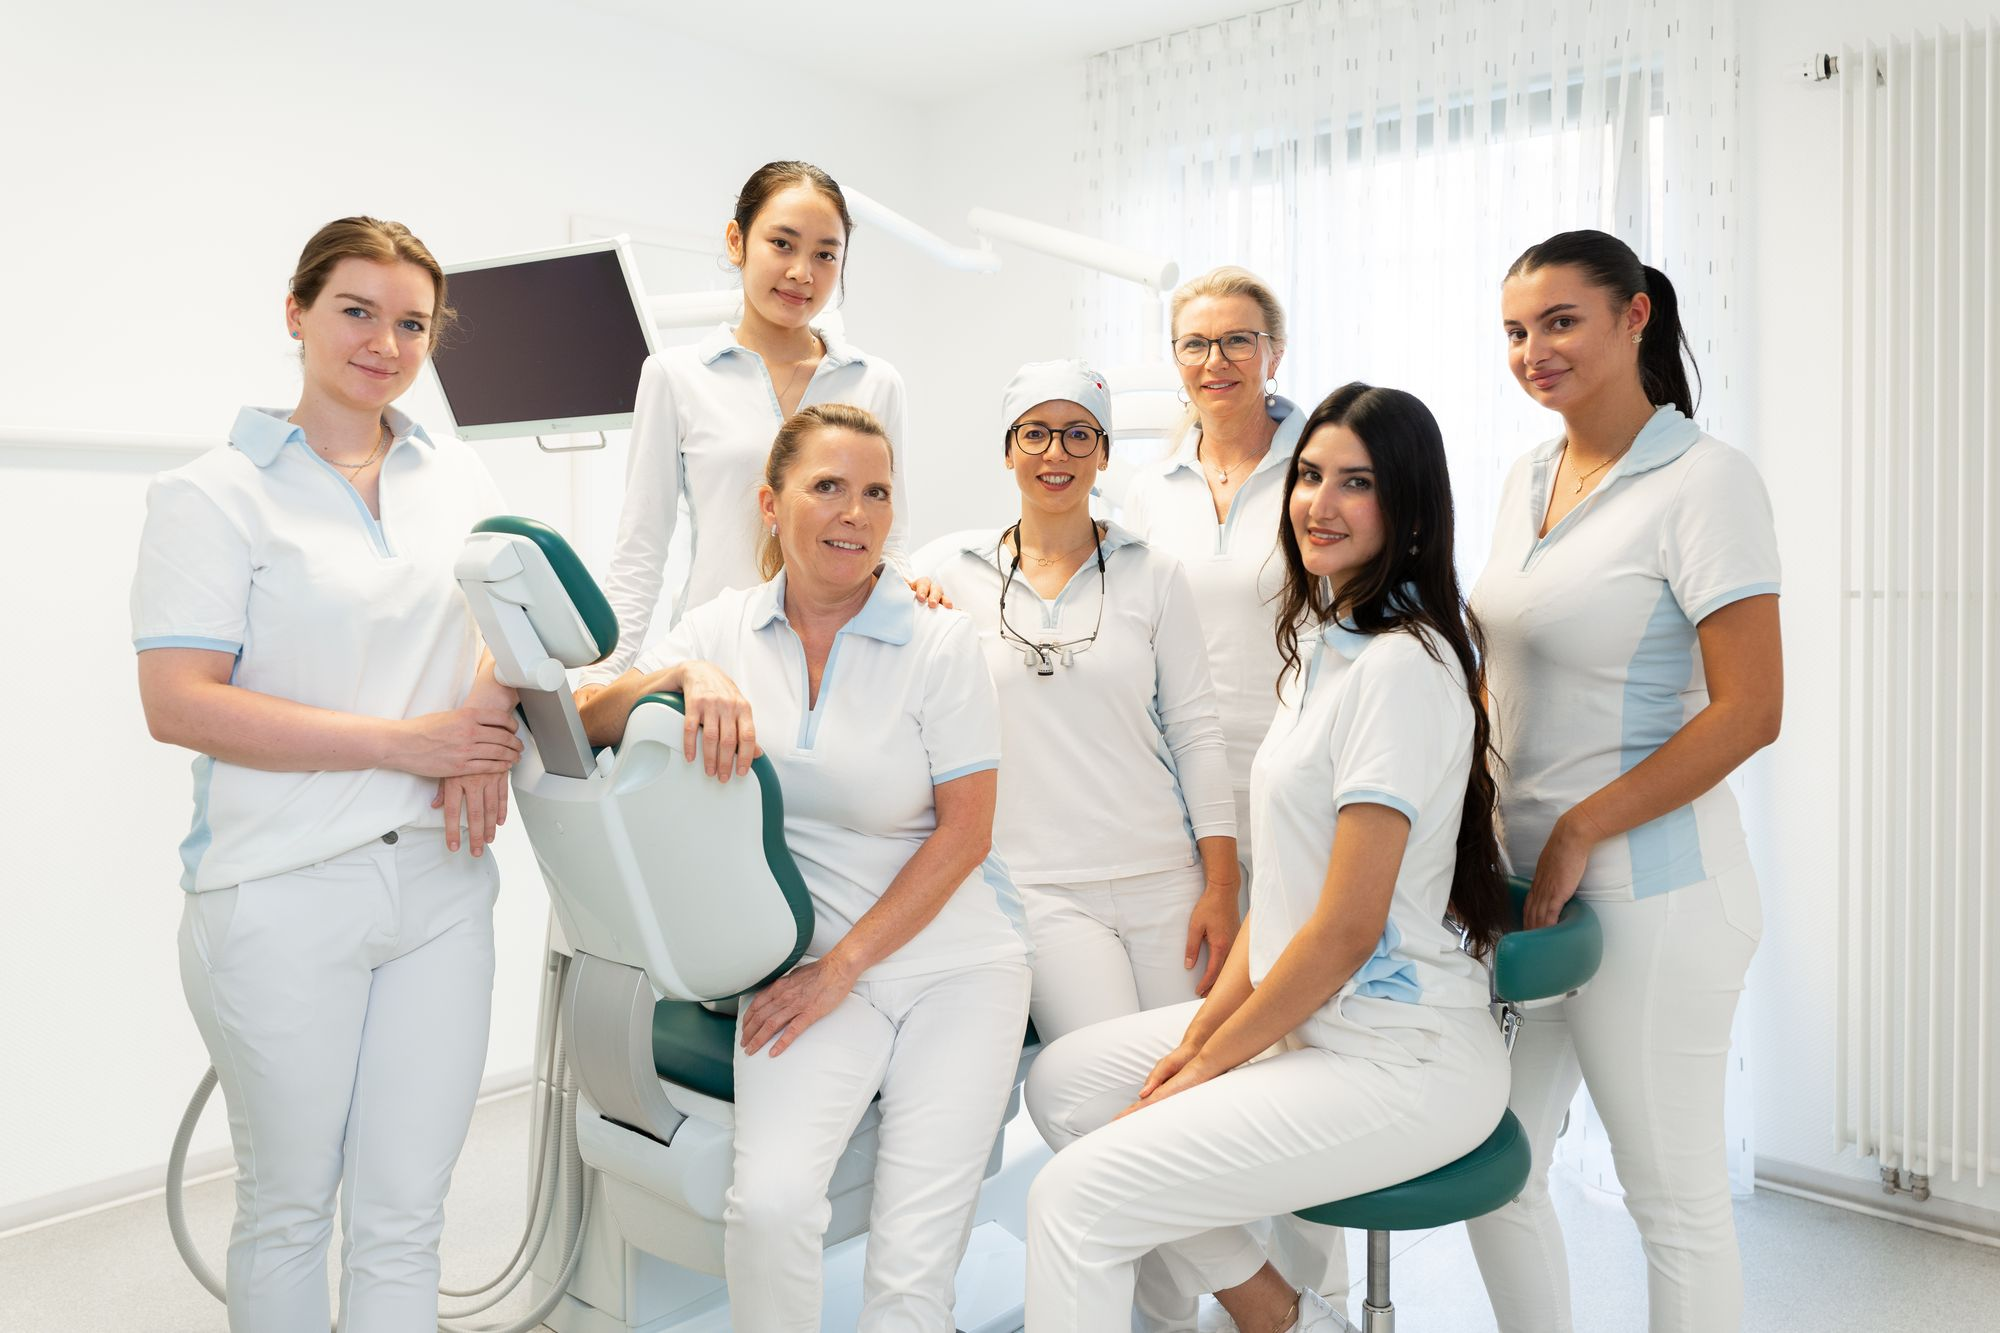
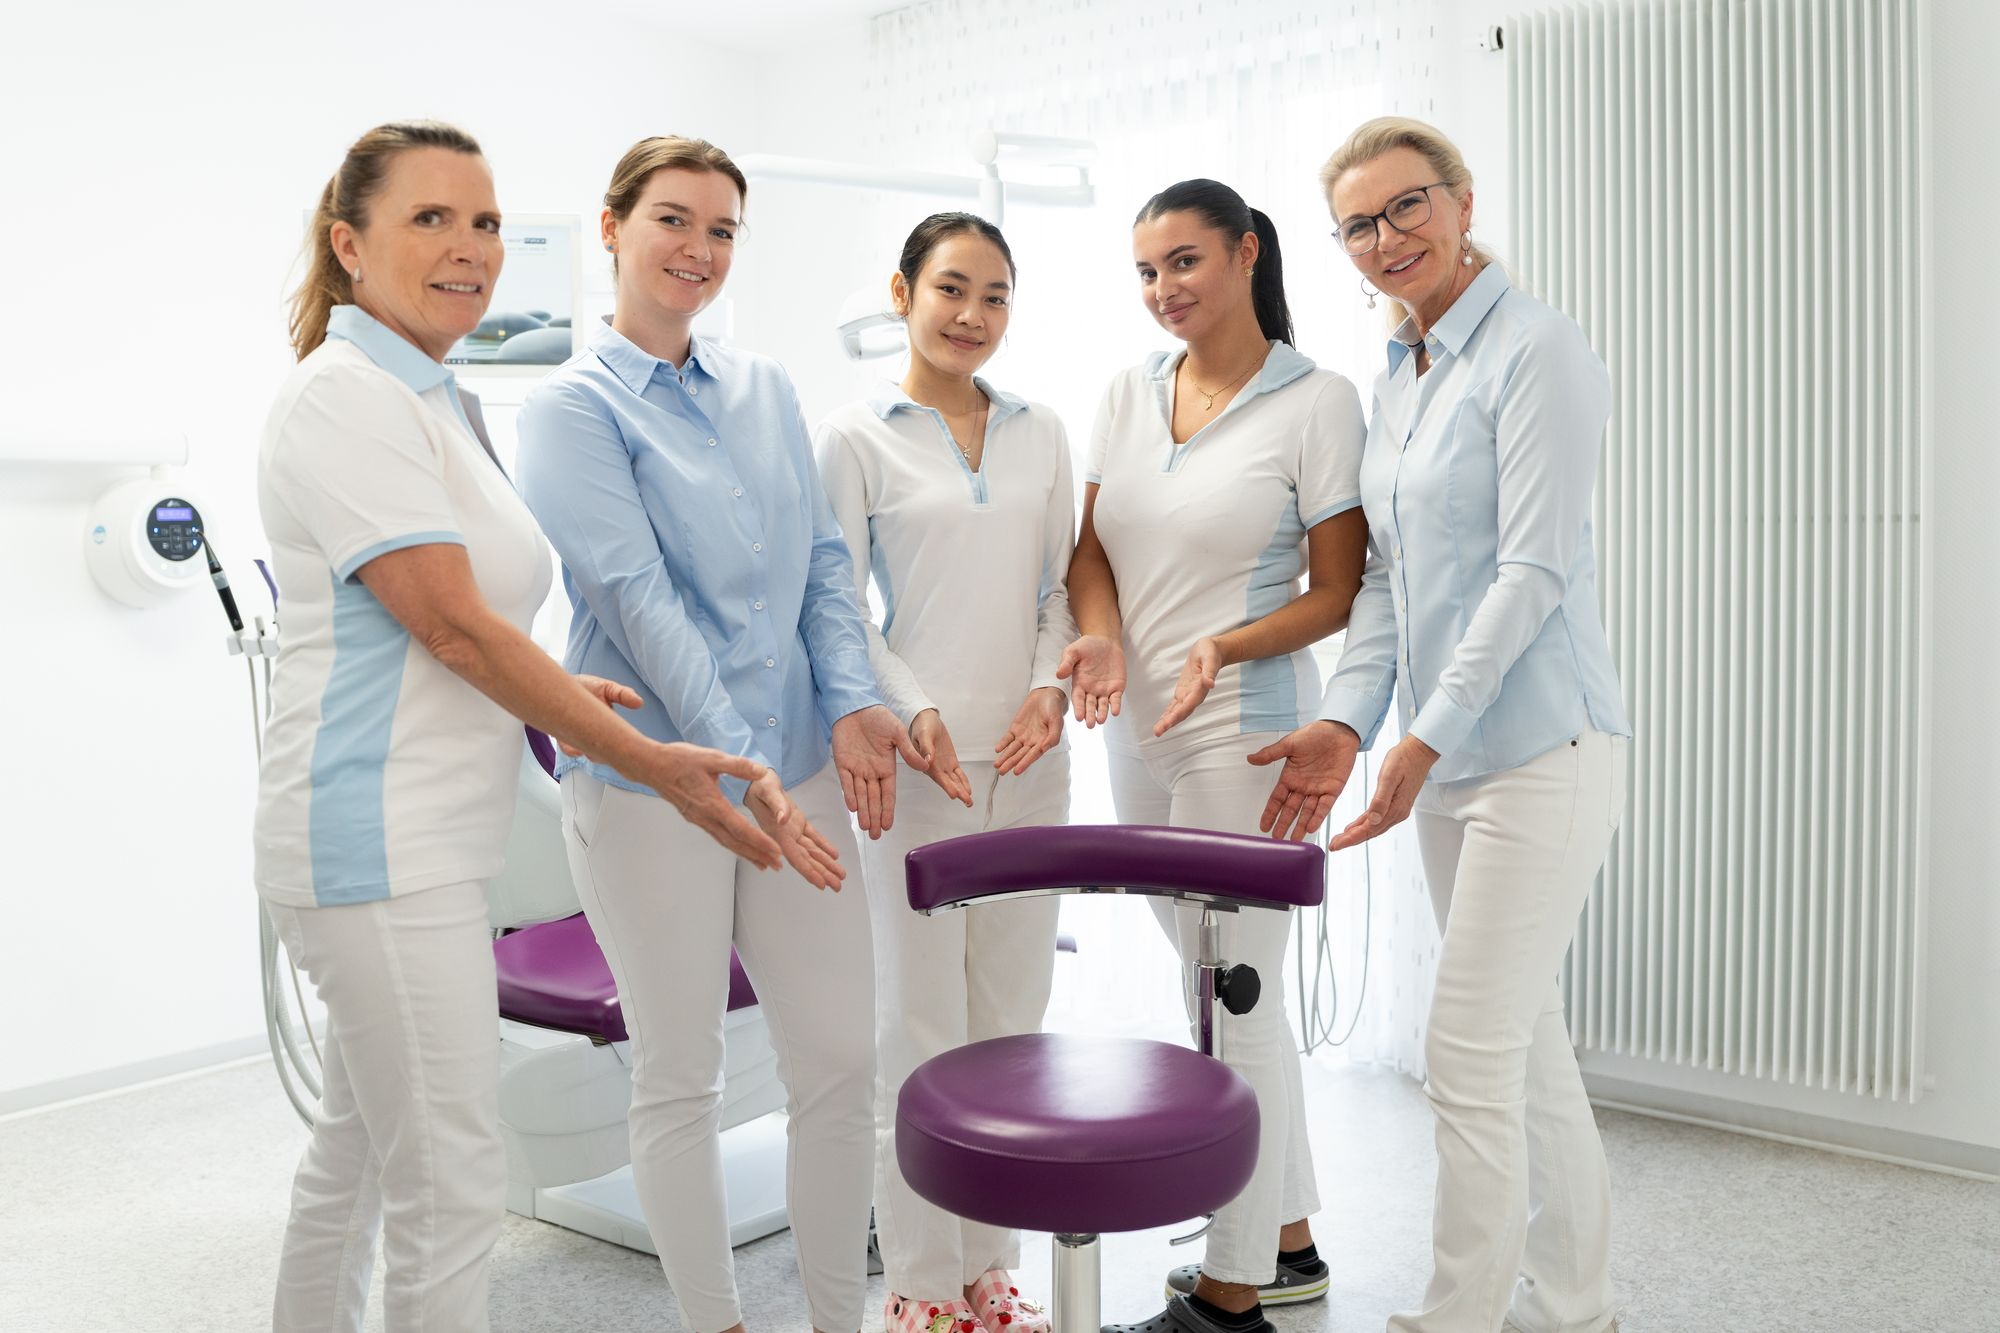
Team: neues Kopfbild, Fotos von Dr. Lisa Blatt und Dr. Alina Günther (Wunsch Awan)
Kopfbild jetzt Nr. 17 (fünf Frauen im Behandlungszimmer) statt Nr. 28, das auf 27 Zoll
zu eng angeschnitten war. Porträts Lisa Blatt und Alina Günther ersetzen die Platzhalter,
Fotos und Zuordnung von Awan. Olga Miller hat weiter den Platzhalter. Doku nachgezogen.

Claude-Session: https://claude.ai/code/session_01N6LENLdCUHbCSPuMQbj8wW

diff --git a/website/team.html b/website/team.html
@@ -47,7 +47,7 @@
 <main id="inhalt">
 <nav class="wrap brotkrumen" aria-label="Brotkrümelnavigation"><a href="index.html">Startseite</a> <span aria-hidden="true">/</span> <span aria-current="page">Team</span></nav>
 <section class="seitenkopf mit-bild">
-  <div class="seitenkopf-bild" data-parallax><picture><source srcset="assets/img/team-kopf.webp" type="image/webp"><img src="assets/img/team-kopf.jpg" alt="Das Team des Zahnzentrums Messerschmidt im Behandlungszimmer" width="2000" height="1333" style="object-position:50% 20%" fetchpriority="high"></picture></div>
+  <div class="seitenkopf-bild" data-parallax><picture><source srcset="assets/img/team-kopf.webp" type="image/webp"><img src="assets/img/team-kopf.jpg" alt="Fünf Frauen aus dem Team des Zahnzentrums Messerschmidt im Behandlungszimmer" width="2000" height="1333" style="object-position:50% 10%" fetchpriority="high"></picture></div>
   <div class="wrap seitenkopf-text">
     <p class="dachzeile dachzeile-hell">Team</p>
     <h1>Modern, kompetent und herzlich.</h1>
@@ -81,7 +81,7 @@
       </div>
     </article>
     <article class="person" id="blatt">
-      <div class="person-bild"><div class="platzhalter-foto"><span>Foto wird<br>nachgereicht</span></div></div>
+      <div class="person-bild"><picture><source srcset="assets/img/team-lisa-blatt.webp" type="image/webp"><img src="assets/img/team-lisa-blatt.jpg" alt="Dr. med. dent. Lisa Blatt" width="720" height="900" loading="lazy" decoding="async"></picture></div>
       <div class="person-text">
         <h3>Dr. med. dent. Lisa Blatt</h3>
         <p class="rolle">Zahnärztin</p>
@@ -91,7 +91,7 @@
       </div>
     </article>
     <article class="person" id="guenther">
-      <div class="person-bild"><div class="platzhalter-foto"><span>Foto wird<br>nachgereicht</span></div></div>
+      <div class="person-bild"><picture><source srcset="assets/img/team-alina-guenther.webp" type="image/webp"><img src="assets/img/team-alina-guenther.jpg" alt="Dr. med. dent. Alina Günther" width="720" height="900" loading="lazy" decoding="async"></picture></div>
       <div class="person-text">
         <h3>Dr. med. dent. Alina Günther</h3>
         <p class="rolle">Zahnärztin</p>

diff --git a/doku/entscheidungen.md b/doku/entscheidungen.md
@@ -28,13 +28,14 @@ Stand 06.10.2026, Awan Tofik mit Claude. Kein eigenes Onboarding für die Haupts
 | start-karriere | 112 | Start, Karriere |
 | start-kontakt | 1 | Kontakt, Anfahrt |
 | praxis-kopf / -gebaeude / -wartebereich / -empfang | 10 / 4 / 52 / 31 | Praxis (Kopf und Wartebereich getauscht am 08.10.2026, Wunsch Awan) |
-| team-kopf / team-sabine / team-duo | 28 / 57 / 105 | Team (team-kopf seit 08.10.2026 in voller Höhe, nach oben ausgerichtet, damit keine Köpfe abgeschnitten werden) |
+| team-kopf / team-sabine / team-duo | 17 / 57 / 105 | Team (team-kopf seit 08.10.2026 Nr. 17 statt Nr. 28, Gruppe mit neun Personen war auf 27 Zoll zu eng angeschnitten) |
+| team-lisa-blatt / team-alina-guenther | nicht aus dem Shooting | Team, Porträts von Awan am 08.10.2026 geschickt (Bildschirmfotos der Porträts von der bisherigen Seite), Zuordnung von Awan bestätigt |
 | kontakt-kopf | 12 | Kontakt (vorher Nr. 2, getauscht am 08.10.2026, Wunsch Awan) |
 | og-bild | 29 | Vorschaubild für Links |
 
 ## Offen / bitte bestätigen
 
-- [ ] **Fotos der Zahnärztinnen:** Olga Miller, Dr. Lisa Blatt und Dr. Alina Günther haben vorerst den Platzhalter „Foto wird nachgereicht“ (Vorgabe Awan).
+- [ ] **Foto Olga Miller:** hat noch den Platzhalter „Foto wird nachgereicht“. Lisa Blatt und Alina Günther haben seit 08.10.2026 Fotos. Olga Miller ist auf den Gruppenfotos Nr. 27 bis 30 die Zahnärztin mit Haube (Angabe Awan), ein Einzelporträt gibt es im Shooting nicht.
 - [ ] **Praxisteam-Raster (Team-Seite):** Portraits Nr. 71, 79, 91, 101 mit „Name wird nachgereicht / Funktion wird nachgereicht“. Falls darunter Zahnärztinnen sind, nach oben zu den Behandlerinnen verschieben.
 - [ ] **Team-Liste:** Die bisherige Seite nennt 14 Mitarbeiterinnen namentlich (Stand unklar). Mit Namen aufnehmen? Dann Liste bestätigen lassen.
 - [ ] **Hanh Geyrhofer** wird auf der alten Seite als Kinderzahnärztin/Endodontie genannt, steht aber nicht mehr bei den Zahnärztinnen. Bewusst weggelassen.
